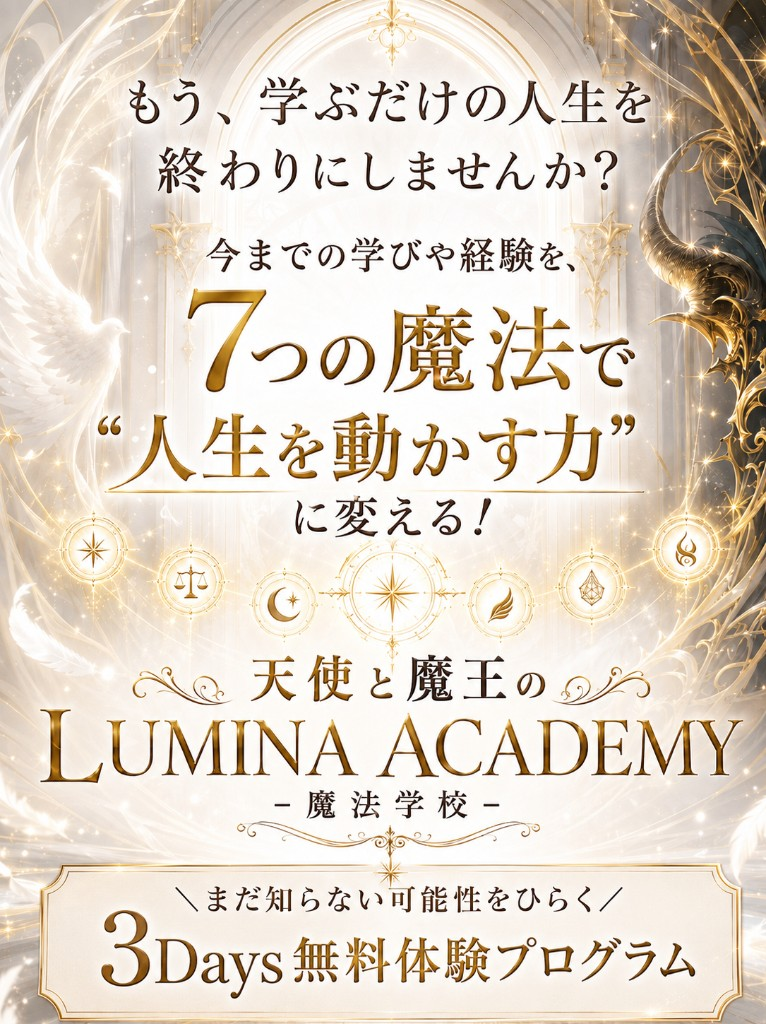
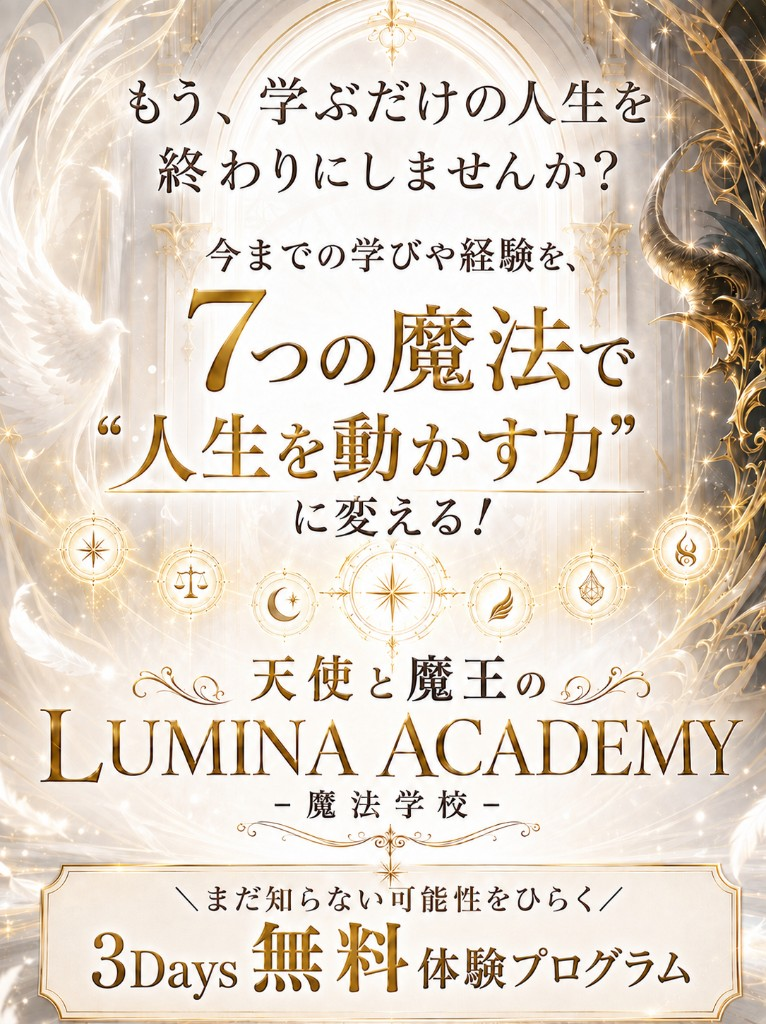
Update LP2 FV image, compact first screen, and simplify schedule.

diff --git a/lumina-academy-sp2.html b/lumina-academy-sp2.html
@@ -172,29 +172,44 @@ p{margin:0 0 1.1em;}
 .doors-figure__rule--top{top:2.8%;}
 .doors-figure__rule--bot{bottom:2.8%;}
 
-/* FV */
-.fv{background:#fdfaf3;padding-bottom:var(--band);}
-.fv__img{width:100%;}
-.fv__meta{padding:var(--gap) var(--wrap-pad) 0;text-align:left;}
-.badges{
-  display:flex;justify-content:center;align-items:center;
-  margin:-.55rem auto .55rem;text-align:center;
+/* FV — 初回表示で画像〜CTAボタンまで収める */
+.fv{
+  background:#fdfaf3;
+  padding-bottom:.55rem;
+  min-height:100svh;
+  display:flex;
+  flex-direction:column;
+  box-sizing:border-box;
 }
-.badge-pair{
-  display:block;width:min(100%,25.5rem);height:auto;margin:0 auto;
-  aspect-ratio:1004/220;object-fit:contain;
-  background:transparent;
-  filter:drop-shadow(0 3px 10px rgba(150,118,42,.18));
+.fv__img{
+  width:100%;
+  max-height:min(52svh,28rem);
+  height:auto;
+  object-fit:contain;
+  object-position:center top;
+  flex:0 1 auto;
+  background:#fdfaf3;
 }
+.fv__meta{padding:.55rem var(--wrap-pad) 0;text-align:center;}
 .schedule{
   border-top:1px solid var(--line);border-bottom:1px solid var(--line);
-  padding:1.15rem 0;margin:0;font-size:clamp(1.05rem,4.4vw,1.22rem);letter-spacing:.08em;
-  line-height:2.2;font-weight:700;text-align:left;
+  padding:.7rem .1rem;margin:0;font-size:clamp(.95rem,3.9vw,1.1rem);letter-spacing:.06em;
+  line-height:1.65;font-weight:700;text-align:center;
 }
-.schedule b{color:var(--gold-deep);font-weight:800;margin-right:.5em;}
+.schedule__title{
+  display:block;margin:0 0 .25rem;color:var(--gold-deep);font-weight:800;letter-spacing:.04em;
+}
+.schedule__body{display:block;font-weight:700;color:var(--primary-deep);}
 
 /* CTA — メールフォーム＋送信ボタン（ボタン内文字のみ中央） */
-.cta{margin-top:var(--gap);padding:0 var(--wrap-pad);text-align:left;}
+.cta{margin-top:.7rem;padding:0 var(--wrap-pad);text-align:left;}
+.fv > .cta{margin-top:.55rem;flex:0 0 auto;}
+.fv .cta-form__label{margin:0 0 .25rem;font-size:.82rem;}
+.fv .cta-form__input{margin:0 0 .55rem;padding:.65rem .85rem;font-size:clamp(.98rem,4vw,1.12rem);}
+.fv .cta__btn{padding:.85rem .85rem;font-size:clamp(.95rem,4vw,1.08rem);}
+.fv .cta__note{margin:.55rem 0 0;font-size:.82rem;line-height:1.55;}
+.fv .cta__legal-wrap{margin:.45rem 0 0;}
+.fv .cta__legal{max-height:4.2em;font-size:.72rem;line-height:1.45;padding:.45rem .55rem;}
 .cta--tight{margin-top:1.15rem;padding:0;}
 .cta-form{margin:0;padding:0;text-align:left;width:100%;max-width:400px;margin-inline:auto;}
 .cta-form__label{
@@ -648,13 +663,9 @@ p{margin:0 0 1.1em;}
   <header class="fv">
     <img class="fv__img" src="assets/fv-main-2.jpg" alt="もう、学ぶだけの人生を終わりにしませんか？今までの学びや経験を、7つの魔法で“人生を動かす力”に変える！天使と魔王の LUMINA ACADEMY 魔法学校／まだ知らない可能性をひらく 3Days無料体験プログラム" width="766" height="1024" fetchpriority="high">
     <div class="fv__meta">
-      <div class="badges">
-        <img class="badge-pair" src="assets/badge-pair.png" alt="参加費無料／オンライン開催" width="1004" height="220" decoding="async">
-      </div>
       <p class="schedule">
-        <b>講義①</b>8月27日（木）21時〜<br>
-        <b>講義②</b>8月29日（土）21時〜<br>
-        <b>講義③</b>8月31日（月）21時〜
+        <span class="schedule__title">◆オンラインプログラム開催スケジュール◆</span>
+        <span class="schedule__body">8/27(木)～8/31(月)の中で3回開催</span>
       </p>
     </div>
     <div class="cta">
